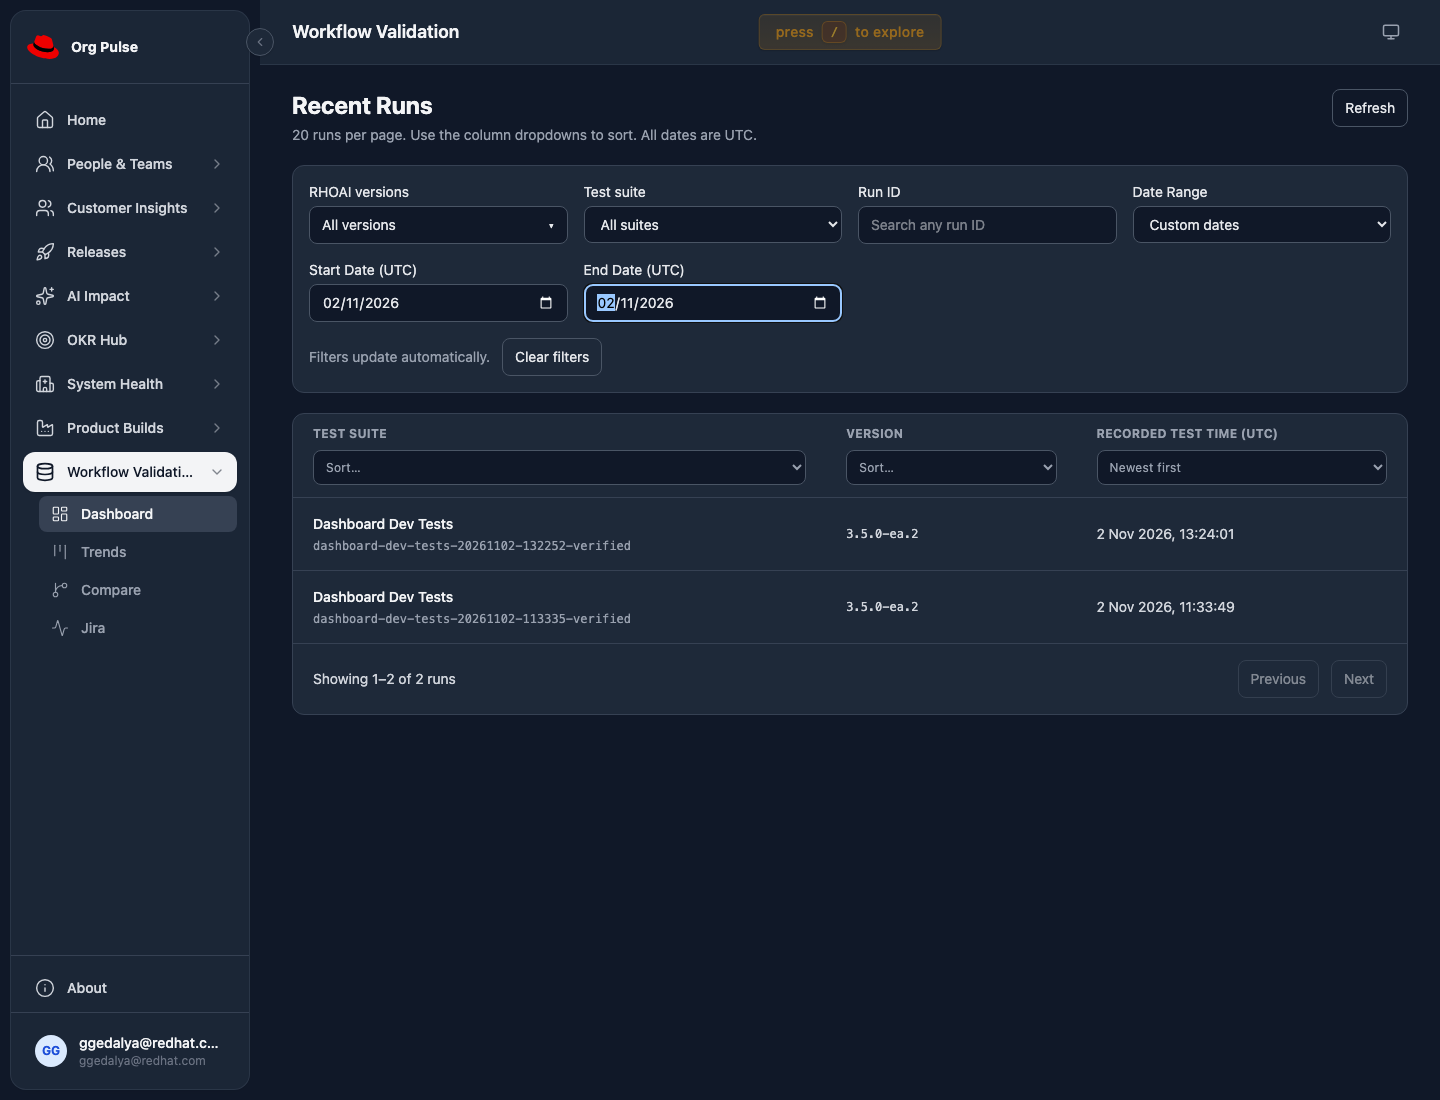
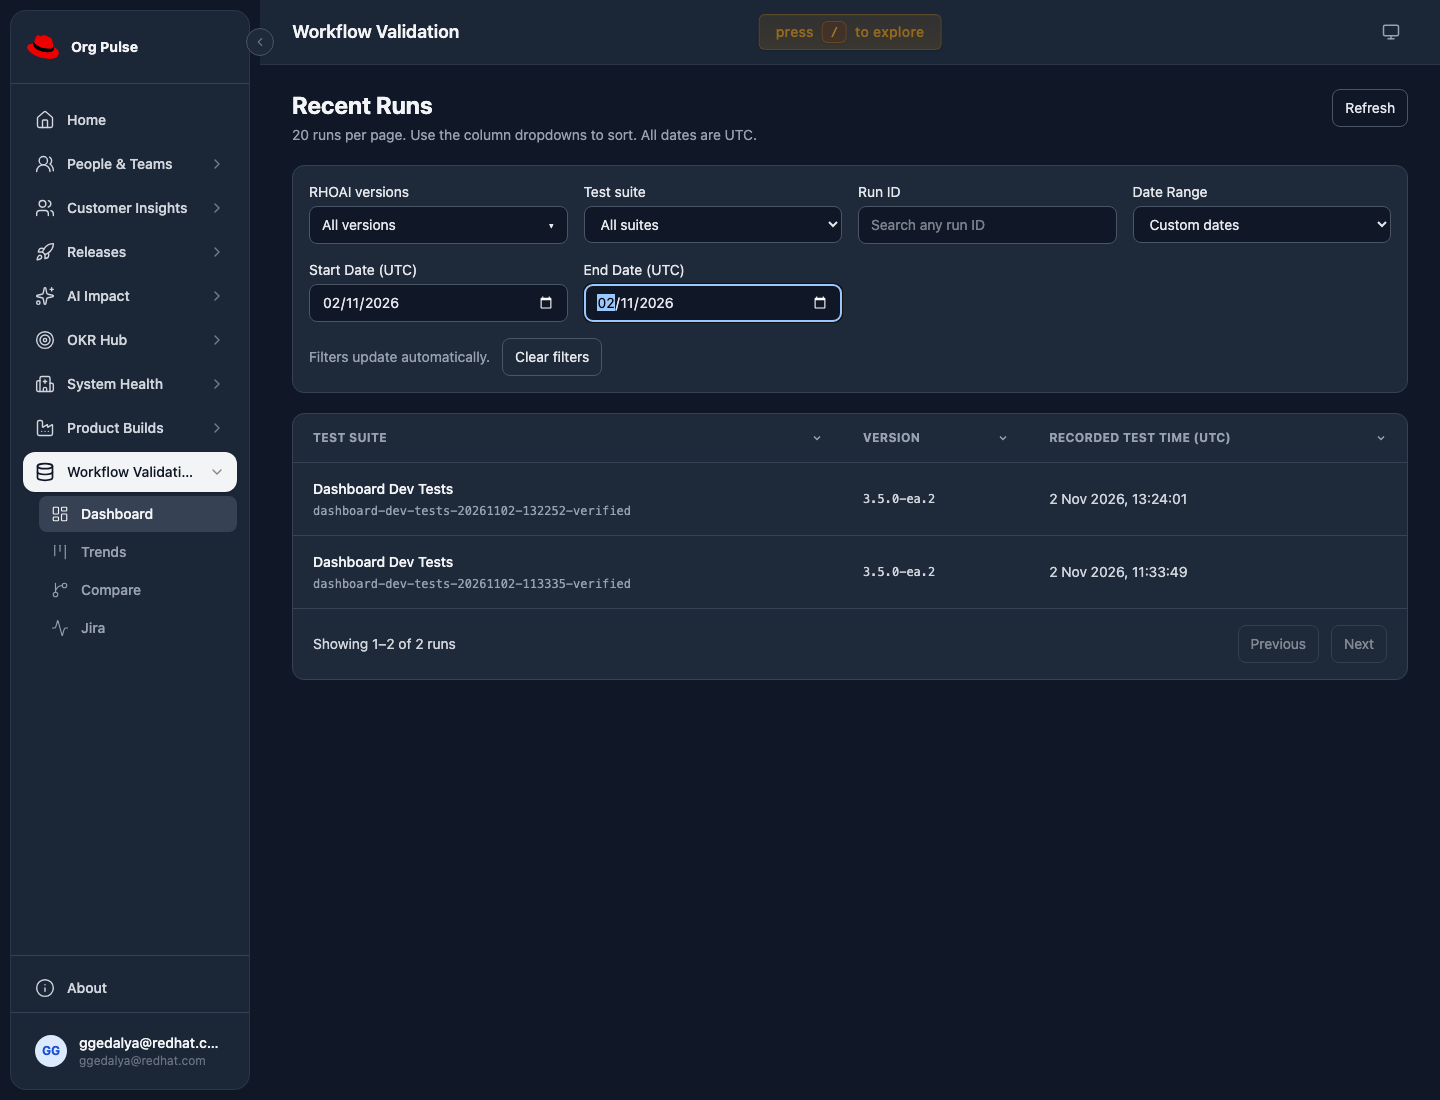
docs(workflow-validation): refresh compact header evidence

diff --git a/modules/workflow-validation/docs/rhai-20044-recent-runs-ux.md b/modules/workflow-validation/docs/rhai-20044-recent-runs-ux.md
@@ -35,7 +35,7 @@ is removed. This rule applies to Recent Runs; it does not rewrite OpenSearch doc
 
 ## Verification
 
-Source `18b76271` passes 6,781 unit tests (11 skipped), including 160 module
+Source `925498ac` passes 6,781 unit tests (11 skipped), including 160 module
 tests. All 32 browser integration tests pass through the existing shared CI
 entrypoint. Lint, module/OpenAPI validation, the standard production build, and
 the compatible GPUaaS frontend build pass.
@@ -52,7 +52,8 @@ runtime settings are unchanged. Previous image references are saved for rollback
 source/asset hashes, and validation results.
 
 Live browser checks passed against both deployed images. They cover all eight
-pages, column sort dropdowns in both directions, plain version labels, the removed
+pages, opening sort menus from the compact headings, both sort directions, plain
+version labels, the removed
 filter summary, version choice order, multiple versions and
 selection reload, date presets and Custom dates, filtering beyond page one,
 Clear, Refresh/Retry, older bookmarks, and exact-run navigation by mouse and
